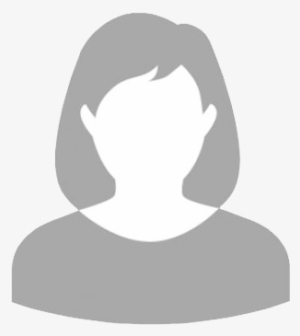
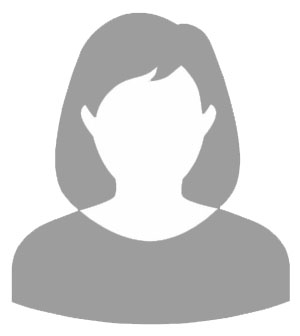
users

diff --git a/public/assets/css/style.css b/public/assets/css/style.css
@@ -1,5 +1,5 @@
 .height-vh-100 {
-    height: 100vh!important;
+    height: 100vh !important;
 }
 .form-control.form-control-tags {
     padding-left: 0.5rem;
@@ -119,53 +119,43 @@ iframe {
     color: #ff0909;
     box-shadow: 0px 0px 3px 1px #ff0909 !important;
 }
-.close-noti{
+.close-noti {
     position: absolute;
     right: 0;
     top: 0;
 }
 #track-eye {
     visibility: hidden;
-    position:absolute;
+    position: absolute;
 }
-#track-eye + label{
-    cursor:pointer
-
+#track-eye + label {
+    cursor: pointer;
 }
-#track-eye:checked ~ label{
+#track-eye:checked ~ label {
     color: #4fbf4f;
-
 }
 #track-eye ~ label::before {
     content: "\f070"; // bars code
-
 }
 
 #track-eye:checked ~ label::before {
     content: "\f06e";
     color: #4fbf4f;
-
 }
 #track-eye + label::after {
-    font-family: var(--bs-font-monospace)!important;
-
+    font-family: var(--bs-font-monospace) !important;
 }
 #track-eye ~ label::after {
     content: "Tacking off!!";
-    margin-left : 5px;
-
-
-
+    margin-left: 5px;
 }
 
 #track-eye:checked ~ label::after {
     content: "Tracking...";
     color: #4fbf4f;
-    margin-left : 7px;
-
-
+    margin-left: 7px;
 }
-.temp-snap{
+.temp-snap {
     transform: scale(0.4);
     position: absolute;
     top: -316px;
@@ -178,14 +168,24 @@ iframe {
     width: 361px;
 }
 .btn-clear {
-    background: transparent ;
+    background: transparent;
     border: 0;
-
 }
 .form-switch .form-check-input.green:checked {
     border-color: rgb(70 191 65 / 95%);
     background-color: rgb(70 191 65 / 95%);
 }
 .alert-light {
-    background-image: linear-gradient(310deg,#e5ebf1 0%,#f5f9ff 100%)!important;
+    background-image: linear-gradient(
+        310deg,
+        #e5ebf1 0%,
+        #f5f9ff 100%
+    ) !important;
+}
+.avatar {
+    position: relative !important;
+}
+.avatar img {
+    top: 0;
+    position: absolute;
 }

diff --git a/app/Http/Controllers/UserController.php b/app/Http/Controllers/UserController.php
@@ -19,7 +19,7 @@ class UserController extends Controller
     }
     public function create()
     {
-        return view('users.create',['roles' => Role::latest()->get()]);
+        return view('users.create', ['roles' => Role::latest()->get()]);
     }
     public function notifications()
     {
@@ -46,7 +46,7 @@ class UserController extends Controller
         ]));
         $new->syncRoles($request->get('role'));
         $user_id = $new->id;
-        $emp = $new->emp()->create(['title' =>  $request->title,'sallery' =>  $request->sallery]);
+        $emp = $new->emp()->create(['title' =>  $request->title, 'sallery' =>  $request->sallery]);
 
         return redirect('/users')
             ->withSuccess(__('User created successfully.'));
@@ -68,6 +68,11 @@ class UserController extends Controller
     }
     public function update(User $user, Request $request)
     {
+        $request->validate([
+            'email' => 'required|email',
+            'file' => 'image|mimes:jpeg,png,jpg,gif,svg|max:2048',
+        ]);
+
         $input = $request->except(['_token', '_method']);
         if ($request->password == '')
             $request->request->remove('password');
@@ -83,6 +88,11 @@ class UserController extends Controller
         $emp->sallery =  $request->sallery;
         $emp->gender =  $request->gender;
         $emp->hiring_date =  $request->hiring_date;
+        if (!empty($request->image)) {
+            $imageName = time() . '.' . $request->image->extension();
+            $request->image->move(public_path('uploads/users/profile'), $imageName);
+            $emp->image =  $imageName ;
+        }
         $emp->save();
 
         return redirect('/users')

diff --git a/resources/views/users/index.blade.php b/resources/views/users/index.blade.php
@@ -58,9 +58,9 @@
                                                 <tr>
                                                     <td class="text-sm">{{$user->id}}</td>
                                                     <td class="text-sm">
-                                                        <span class="my-2 text-xs">
-                                                            <img src="{{$user->emp->image ?? '/uploads/users/profile/default-'.($user->emp->gender ?? '').'.jpg'}}"
-                                                                alt="picture" class="avatar avatar-xxl me-2">
+                                                        <span class="my-2 text-xs avatar avatar-xxl overflow-hidden me-2">
+                                                            <img src="/uploads/users/profile/{{$user->emp->image ?? 'default-'.($user->emp->gender ?? '').'.jpg'}}"
+                                                                alt="picture">
                                                         </span>
                                                     </td>
                                                     <td class="text-sm">{{ $user->name }}</td>

diff --git a/resources/views/users/create.blade.php b/resources/views/users/create.blade.php
@@ -21,7 +21,7 @@
 
                     <div class="row">
                         <div class="col-12 col-lg-8 m-auto">
-                            <form action="{{ !empty($user) ? '/users/'.$user->id : '/users'}}" class="multisteps-form__form mb-8" style="height: 408px;" autocomplete="off" method="POST" >
+                            <form action="{{ !empty($user) ? '/users/'.$user->id : '/users'}}" class="multisteps-form__form mb-8" style="height: 408px;" autocomplete="off" method="POST" enctype="multipart/form-data" >
                                 @csrf
                                 @if(!empty($user))
                                 @method('PUT')

diff --git a/database/migrations/2023_04_02_010159_create_employers_table.php b/database/migrations/2023_04_02_010159_create_employers_table.php
@@ -21,6 +21,7 @@ return new class extends Migration
             $table->string('gender')->nullable();
             $table->date('hiring_date')->nullable();
             $table->double('sallery', 8, 2)->nullable();
+            $table->string('image')->nullable();
             $table->timestamps();
         });
     }
